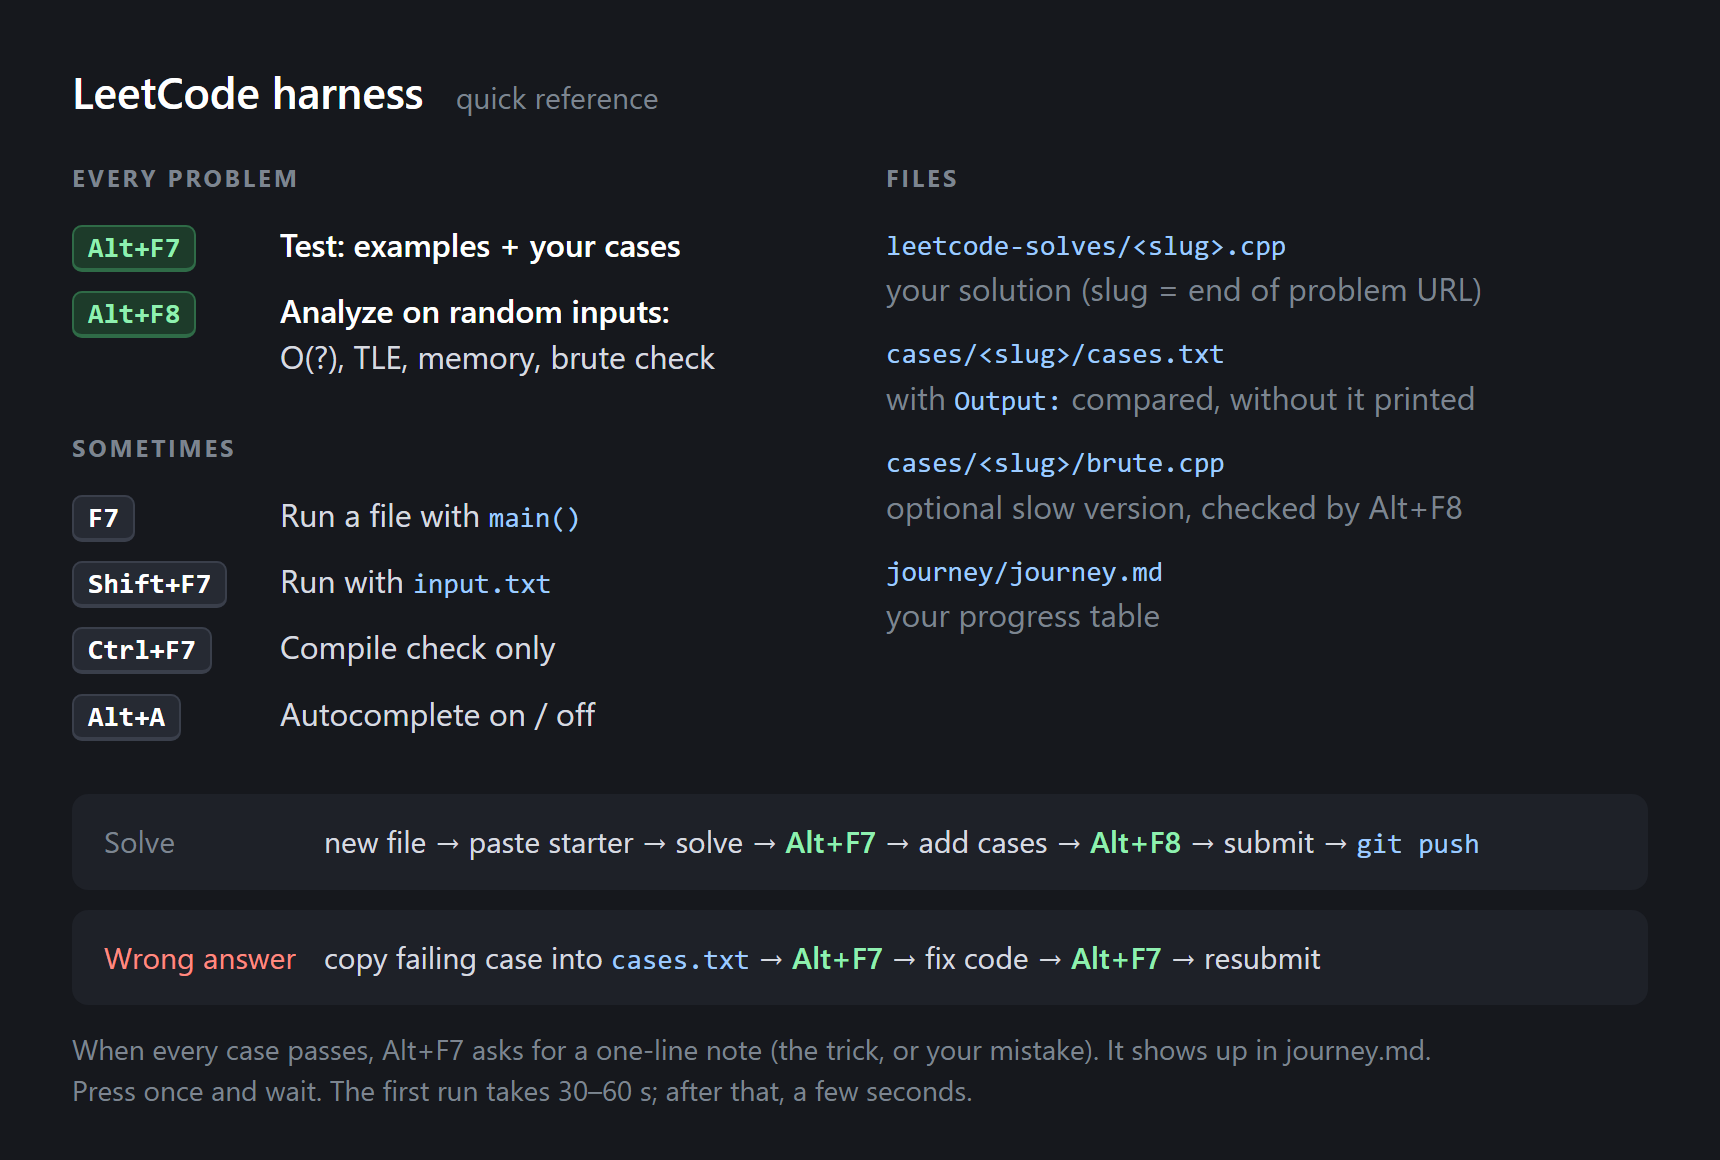
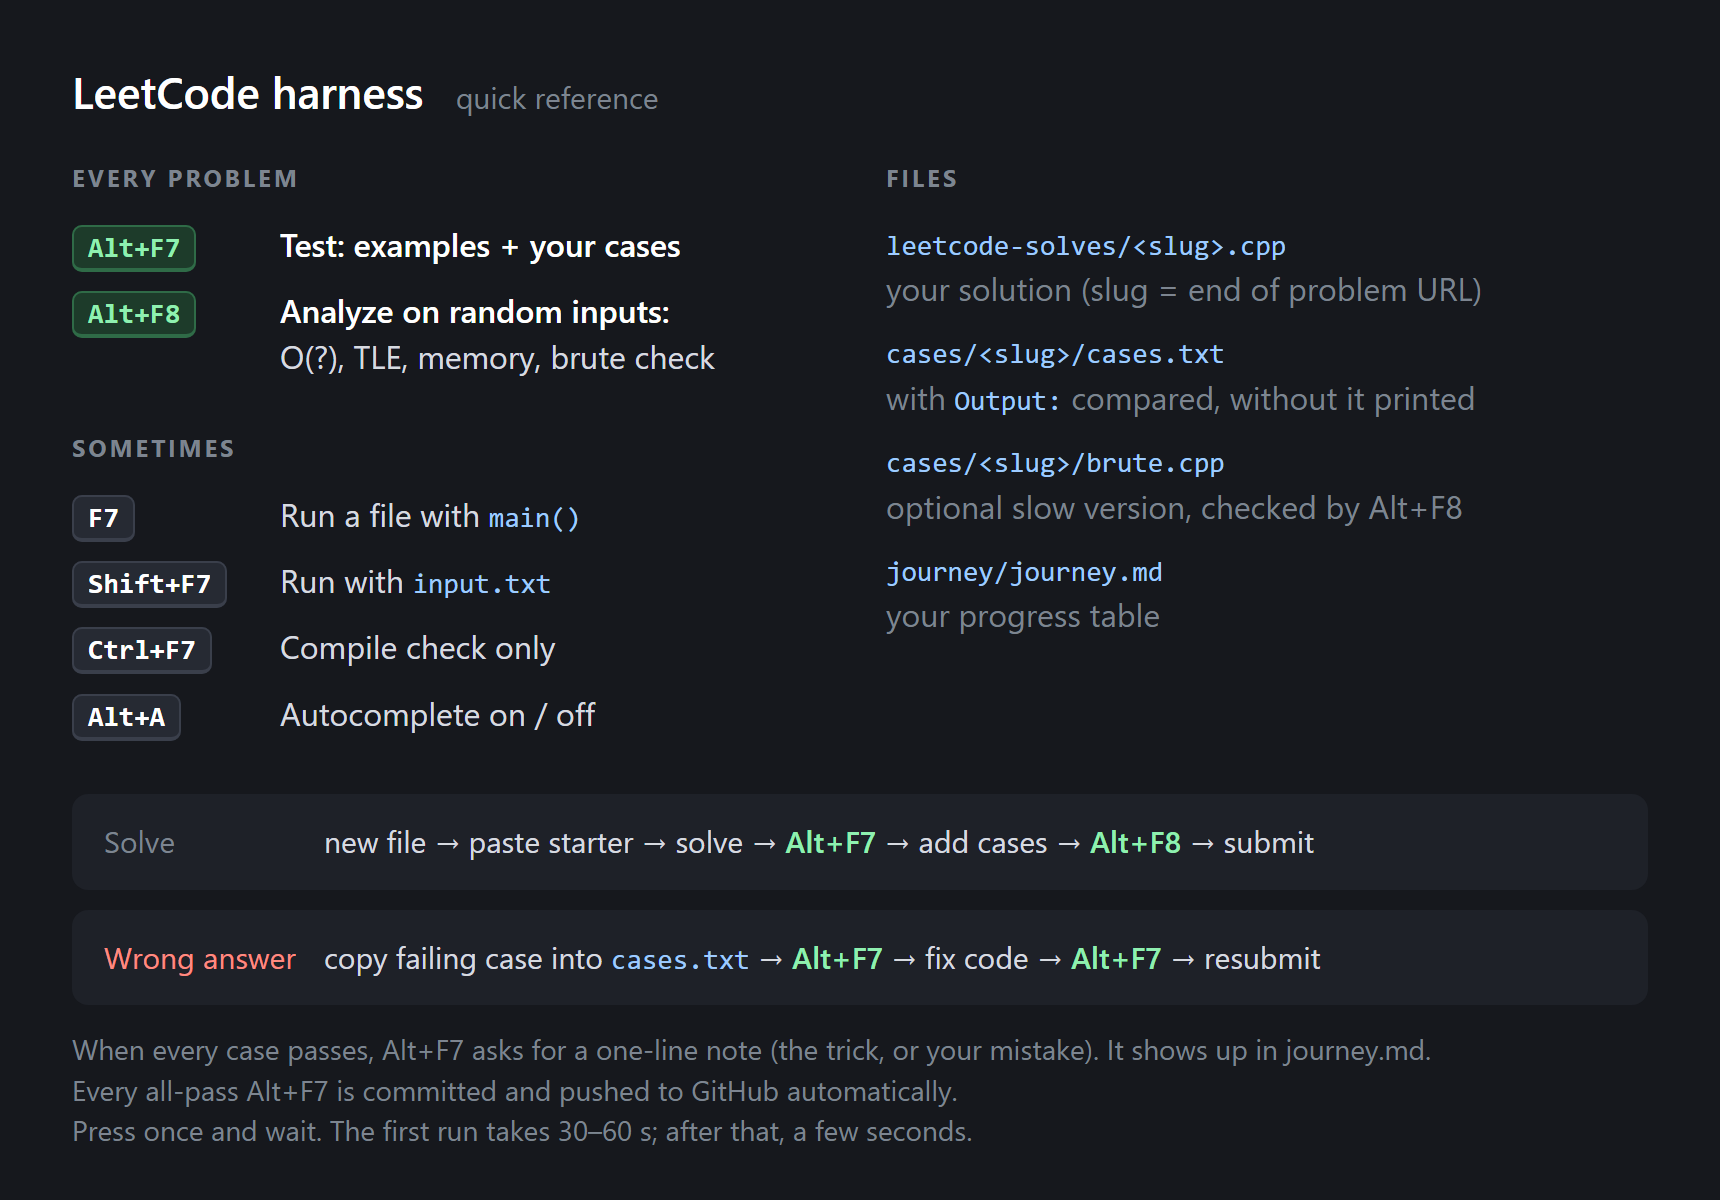
Commit and push on every all-pass Alt+F7; AlgoMaster-style review format with evidence-based score
- every all-pass run commits ('solve:' new version, 'pass:' rerun) and pushes in a hidden background git process
- CLAUDE.md: review sections (score, correctness, complexity, quality, edge cases, key fix), prove bugs before claiming
- cheat sheet and README updated

diff --git a/CLAUDE.md b/CLAUDE.md
@@ -18,12 +18,26 @@ I practice LeetCode in C++ here. Use my files to answer questions about my solut
   3. an outline of the approach.
 - Give the full solution only when I ask for it. Then give the code, explain why it works, its time and space complexity, and the one key idea in a sentence.
 
-**A review of my solution:**
-- Start with the verdict: correct or not.
-- If it's wrong, give the smallest input that breaks it, the expected output and what my code returns.
-- Compare its complexity with the best known approach. If mine is worse, name the better approach.
-- Suggest at most two concrete improvements.
-- Name the pattern, and list 2-3 related problems I haven't solved (check `journey/`).
+**A review of my solution.** Use these sections in this order, with 1-3 short bullets each:
+```
+Score: N/10  <one-word label: Poor | Fair | Good | Great>
+
+1. Correctness     correct or wrong, with evidence. If wrong: smallest failing input, expected
+                   output, what mine returns, and the line at fault.
+2. Complexity      mine (time / space) against the best known. Name the better approach if mine is worse.
+3. Code quality    at most 3 concrete points, most important first, each with its line number.
+4. Edge cases      only the ones that apply to this problem's constraints, and whether mine handles each.
+5. Key fix         the one change that matters most, with only the changed lines of code.
+                   Write "none needed" if there isn't one.
+Pattern: <name>.  Related: <2-3 problems with the same pattern that aren't in journey/, easiest first>
+```
+- **Before calling something a bug, prove it.** Run my code on the input you think breaks it (see "Check before claiming"). Also check whether `journey/` shows the problem as accepted. If you can't make it fail, it isn't a bug; at most it's a code-quality point.
+- **Score from evidence:**
+  - Proven wrong: 1-4.
+  - Correct but slower than the best known: 5-7.
+  - Correct and optimal: 8-10, minus points only for real code-quality issues.
+  - Never score below 5 for something LeetCode accepted.
+- Merge points that share a cause. Leave out pure style nits.
 
 **Patterns and progress:** answer from my data in `journey/`: tags, attempts, notes, what I avoid. Don't answer from general advice.
 
@@ -38,5 +52,6 @@ I practice LeetCode in C++ here. Use my files to answer questions about my solut
 - No praise, celebration or excitement. No "great question", no emoji, no exclamation marks.
 - No filler: "it's worth noting", "let's dive in", "at its core", "here's the thing", "the key insight is" as a setup line.
 - No "not X, but Y" framing. Say what is true.
-- No recap at the end. Stop after the last useful point.
+- No recap at the end and no unasked "next step" suggestions. Stop after the last useful point.
+- Before sending, check the answer against these rules and cut whatever breaks them.
 - Use bullets only for real lists. Show only the code that matters, in LeetCode-style C++.

diff --git a/README.md b/README.md
@@ -110,7 +110,7 @@ Everything lands in `journey/`:
 
 Status is `accepted` once LeetCode has accepted a submission, `passed locally` when every local case passed, and `attempted` otherwise. To get `accepted`, put your LeetCode username (from `leetcode.com/u/<username>`) in `.zed/leetcode-user.txt`. The file is git-ignored, and each run then reads your public list of recent accepts, with no login. A run prints `LeetCode accepted: <slug>` when it finds a new one.
 
-When a problem passes for the first time, the solution, `cases/<slug>/` and `journey/` are committed automatically. Nothing is ever pushed.
+Every Alt+F7 run where all cases pass commits the solution, `cases/<slug>/` and `journey/`: `solve: <slug>` for a new version, `pass: <slug>` for a rerun. It then pushes in the background; if you're offline, the next push catches up.
 
 ## Speed
 
